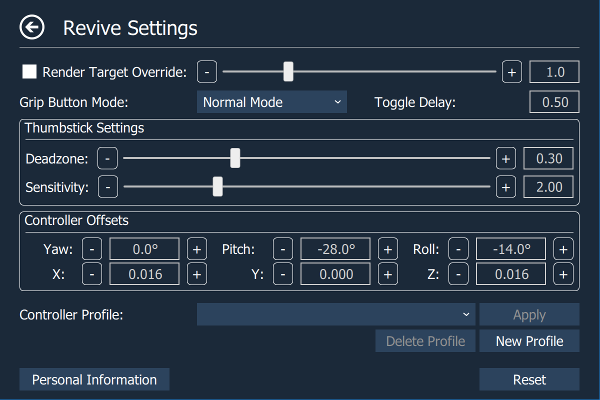
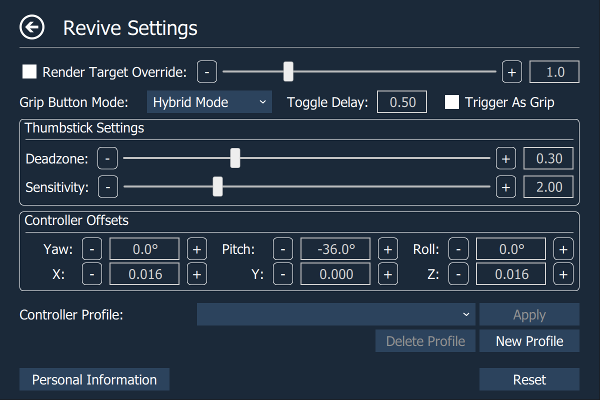
Updated Readme, project file and installer.

Changed region(s): [[0.0, 0.0, 1.0, 1.0], [0.81, 0.6, 0.9, 0.66], [0.54, 0.6, 0.57, 0.63]]

diff --git a/Readme.md b/Readme.md
@@ -5,13 +5,15 @@
 
 Adds an overlay to the OpenVR dashboard that allows access to advanced settings.
 
-![Example Screenshot](https://raw.githubusercontent.com/matzman666/OpenVR-AdvancedSettings/master/docs/screenshots/InVRScreenshot.png)
+![Example Screenshot](docs/screenshots/InVRScreenshot.png)
 
 # Features
 
 - Set supersampling values.
 - Enable/disable asynchronous and interleaved reprojection.
+- Save supersampling and reprojection settings into profiles.
 - Change several chaperone settings not accessible via SteamVR settings (to e.g. make it completely invisible).
+- Chaperone Proximity Warning: Several warning methods can be configured.
 - Chaperone Profiles: Allows to quickly switch chaperone geometry and settings while in VR.
 - Temporarily move and rotate the playspace.
 - Floor height fix.
@@ -50,27 +52,29 @@ Executing startdesktopmode.bat from the application folder shows a window on the
 
 ## Top Page:
 
-![Root Page](https://raw.githubusercontent.com/matzman666/OpenVR-AdvancedSettings/master/docs/screenshots/RootPage.png)
+![Root Page](docs/screenshots/RootPage.png)
 
+- **Supersampling Profile**: Allows to apply supersampling profiles. Profiles can be created on the SteamVR page
 - **Chaperone Profile**: Allows to apply chaperone profiles. Profiles can be created on the Chaperone page
 - **Microphone**: Allows to set the microphone volume and to mute/unmute it.
 - **Push-to-Talk**: Enable/disable push-to-talk and allows to apply push-to-talk profiles. Profiles can be created on the Audio page.
 
 ## - SteamVR Page:
 
-![SteamVR Page](https://raw.githubusercontent.com/matzman666/OpenVR-AdvancedSettings/master/docs/screenshots/SteamVRPage.png)
+![SteamVR Page](docs/screenshots/SteamVRPage.png)
 
+- **Profile**: Allows to apply/define/delete supersampling profiles that save supersampling and reprojection settings.
 - **Application Supersampling**: Supersampling setting for OpenVR applications/games. Application supersampling [now behaves linearly](https://steamcommunity.com/games/250820/announcements/detail/1256913672017664045) where 2.0 means twice the number of pixel.
 - **Compositor Render Target Multiplier**: Supersampling setting for the OpenVR compositor (Requires restart). Compositor supersampling still behaves the old way where 2.0 means four-times the number of pixel.
 - **Enable Advanced Supersample Filtering**: Einable/disable image filtering on supersampled renderings.
 - **Allow Asynchronous Reprojection**: Enable/disable asynchronous reprojection.
 - **Allow Interleaved Reprojection**: Enable/disable interleaved reprojection.
-- **Force Reprojection**: Enable/disable forced reprojection.
+- **Enable Always-on Reprojection**: Enable/disable forced reprojection.
 - **Restart SteamVR**: Restart SteamVR (May crash the Steam overlay when SteamVR Home is running when you restart. Therefore I advice that you close SteamVR Home before restarting).
 
 ## - Chaperone Page:
 
-![Chaperone Page](https://raw.githubusercontent.com/matzman666/OpenVR-AdvancedSettings/master/docs/screenshots/ChaperonePage.png)
+![Chaperone Page](docs/screenshots/ChaperonePage.png)
 
 - **Profile**: Allows to apply/define/delete chaperone profiles that save geometry info, style info or other chaperone settings (What exactly is saved in a chaperone profile can be selected when a profile is created).
 - **Visibility**: Allows to configure the visibility of the chaperone bounds. Unlike the slider in the chaperone settings, this one is not capped at 30%. When set to 0 chaperone bounds are completely invisible.
@@ -79,12 +83,26 @@ Executing startdesktopmode.bat from the application folder shows a window on the
 - **Center Marker**: Displays a marker that represents the center of the playspace.
 - **Play Space Maker**: Displays the outlines of the rectangle representing the playspace.
 - **Force Bounds**: Force chaperone bounds always on.
+- **Proximity Warning Settings**: Opens a page that allows to configure several warning methods for when the user comes too close to the chaperone bounds.
 - **Flip Orientation**: Flips the orientation of the play space.
 - **Reload from Disk**: Reloads the chaperone bounds geometry from disk.
 
+
+## - Chaperone Proximity Warning Settings Page:
+
+![Chaperone Proximity Warning Settings Page](docs/screenshots/ChaperoneWarningPage.png)
+
+- **Switch to Beginner Mode**: Switches the chaperone bound's style to beginner mode when the user's distance to the chaperone falls below the configured activation distance.
+- **Trigger Haptic Feedback**: The left and right controller start vibrating when the user's distance to the chaperone falls below the configured activation distance.
+- **Audio Warning**: Plays an alarm sound when the user's distance to the chaperone falls below the configured activation distance.
+  - **Loop Audio**: Whether the audio alarm should only be played once or in a loop.
+  - **Loop Audio**: Modify audio volume as a function of the user's distance to the chaperone.
+- **Open dashboard**: Opens the dashboard when the user's distance to the chaperone falls below the configured activation distance. The idea is to pause the game (most single-player games auto-pause when the dashboard is shown) to give the user time for reorientation.
+- **Velocity Dependent Fade/Activation Distance**: Dynamically modifies the chaperone's fade distance and the proximity warning's activation distance as a function of the player's speed. The used formula is: *distance = old_distance * ( 1 + distance_modifier * max(left_controller_speed, right_controller_speed, hmd_speed) )*
+
 ## - Play Space Page:
 
-![Play Space Page](https://raw.githubusercontent.com/matzman666/OpenVR-AdvancedSettings/master/docs/screenshots/PlayspacePage.png)
+![Play Space Page](docs/screenshots/PlayspacePage.png)
 
 Allows to temporarily move and rotate the center of the playspace. This allows to reach interaction elements that are just inside our real-world walls or otherwise inaccessible (e.g. when your playspace is smaller than the recommended one). Can also be used to discover the terrors that lie outside of the intended playspace (ever wondered what's behind the door in The Lab?).
 
@@ -92,13 +110,13 @@ Allows to temporarily move and rotate the center of the playspace. This allows t
 
 ## - Floor Fix Page:
 
-![Floor Fix Page](https://raw.githubusercontent.com/matzman666/OpenVR-AdvancedSettings/master/docs/screenshots/FloorFixPage.png)
+![Floor Fix Page](docs/screenshots/FloorFixPage.png)
 
 Allows you to fix the height of your floor. Just place one controller on your floor and press the button.
 
 ## - Audio Page:
 
-![Audio Page](https://raw.githubusercontent.com/matzman666/OpenVR-AdvancedSettings/master/docs/screenshots/AudioPage.png)
+![Audio Page](docs/screenshots/AudioPage.png)
 
 - **Playback Device**: Allows to select the playback device.
 - **Mirror Device**: Allows to select the mirror device, set its volume and to mute/unmute it.
@@ -108,11 +126,12 @@ Allows you to fix the height of your floor. Just place one controller on your fl
 - **Left Controller**: Configure the left controller for push-to-talk.
 - **Right Controller**: Configure the right controller for push-to-talk.
 - **Show Notification**: Shows a notification icon in the headset when push-to-talk is enabled a configured button is pressed.
+- **Push-to-Mute**: Inverse push-to-talk. The Microphone is unmuted by default and muted when any of the configured buttons is pressed.
 - **Profile**: Allows to apply/define/delete push-to-talk profiles that save buttons, controller and notification settings.
 
 ## - Revive Page:
 
-![Revive Page](https://raw.githubusercontent.com/matzman666/OpenVR-AdvancedSettings/master/docs/screenshots/RevivePage.png)
+![Revive Page](docs/screenshots/RevivePage.png)
 
 The Revive page is only visible when the [Revive overlay](https://github.com/LibreVR/Revive) is installed. In case an installed Revive overlay is not correctly detected you can force the Revive page in the settings.
 
@@ -120,6 +139,8 @@ Any changes to controller settings are immediately applied by Revive (Requires R
 
 - **Render Target Override**: Overrides the Oculus-side render target (aka supersampling). Enabling it prevents Oculus applications from dynamically modifying this value. Warning: Is applied on top of the SteamVR supersampling value. (pixelsPerDisplayPixel setting in the vrsettings file)
 - **Grip Button mode**: Allows to set the grip button mode. (ToggleGrip setting in the vrsettings file)
+- **Toggle Delay**: Allows to configure the toggle delay. (ToggleDelay setting in the vrsettings file)
+- **Trigger As Grip**:  Swaps the trigger and grip. (TriggerAsGrip setting in the vrsettings file)
 - **Deadzone**: Allows to modify the simulated thumbsticks' deadzone. (ThumbDeadzone setting in the vrsettings file)
 - **Sensitivity**: Allows to modify the simulated thumbsticks' sensitivity. (ThumbSensitivity setting the vrsettings file)
 - **Yaw**: Allows to modify the touch controllers yaw orientation. (TouchYaw setting the vrsettings file)
@@ -132,7 +153,7 @@ Any changes to controller settings are immediately applied by Revive (Requires R
 
 ## - Utilities Page:
 
-![Utilities Page](https://raw.githubusercontent.com/matzman666/OpenVR-AdvancedSettings/master/docs/screenshots/UtilitiesPage.png)
+![Utilities Page](docs/screenshots/UtilitiesPage.png)
 
 - **Keyboard Utilities:** Some applications (mostly 2D-monitor applications with tackled-on/modded-in VR support) do not support the VR keyboard but require an actual physical keyboard for text input. This utilities allow to send emulated key strokes from VR keyboard input to such application to overcome this limitation. Does not work in desktop mode.
 
@@ -142,13 +163,13 @@ Any changes to controller settings are immediately applied by Revive (Requires R
 
 ## - Accessibility Page:
 
-![Accessibility Page](https://raw.githubusercontent.com/matzman666/OpenVR-AdvancedSettings/master/docs/screenshots/AccessibilityPage.png)
+![Accessibility Page](docs/screenshots/AccessibilityPage.png)
 
 - **Adjust Player Height:** Offsets the player height to allows short or wheelchair-bound players to fully interact with height-limited applications by both boosting their height and being able to touch the in-game floor when necessary by pressing a configurable motion controller button.
 
 ## - Statistics Page:
 
-![Statistics Page](https://raw.githubusercontent.com/matzman666/OpenVR-AdvancedSettings/master/docs/screenshots/StatisticsPage.png)
+![Statistics Page](docs/screenshots/StatisticsPage.png)
 
 - **HMD Distance Moved**: Shows the distance the headset has moved on the xz-plane.
 - **HMD Rotations**: Shows the number of rotations around the y-axis (Useful for untangling the cord).
@@ -162,7 +183,7 @@ Any changes to controller settings are immediately applied by Revive (Requires R
 
 ## - Settings Page:
 
-![Settings Page](https://raw.githubusercontent.com/matzman666/OpenVR-AdvancedSettings/master/docs/screenshots/SettingsPage.png)
+![Settings Page](docs/screenshots/SettingsPage.png)
 
 - **Autostart:** Allows you to enable/disable auto start.
 - **Force Revive Page:** Force the Revive page button on the root page to be visible.
